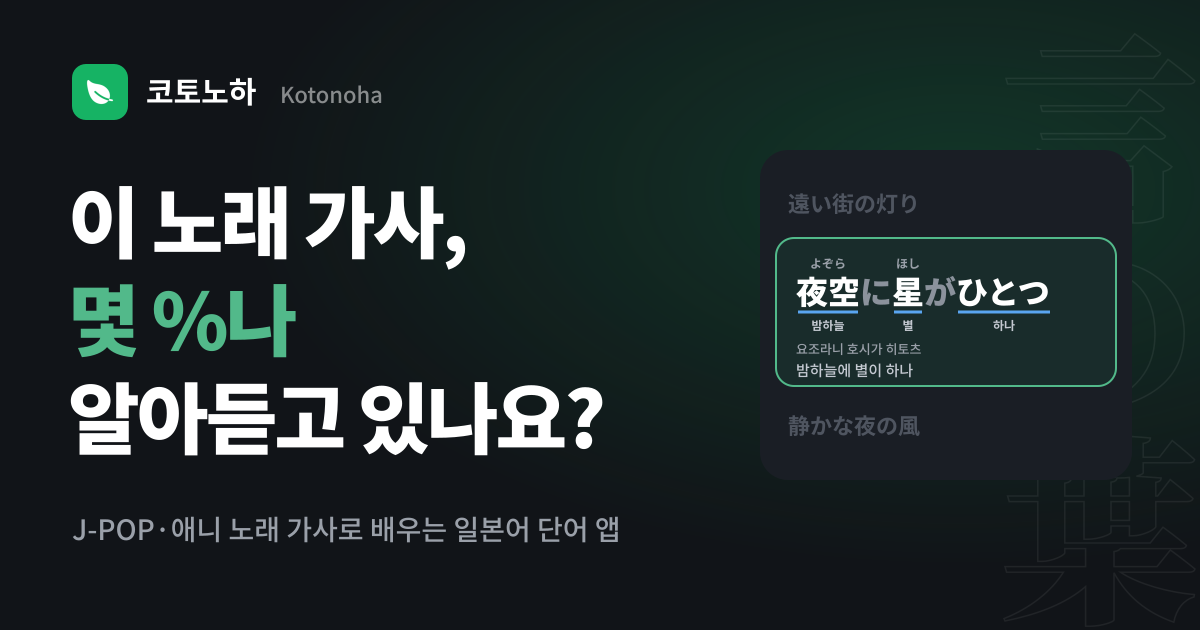
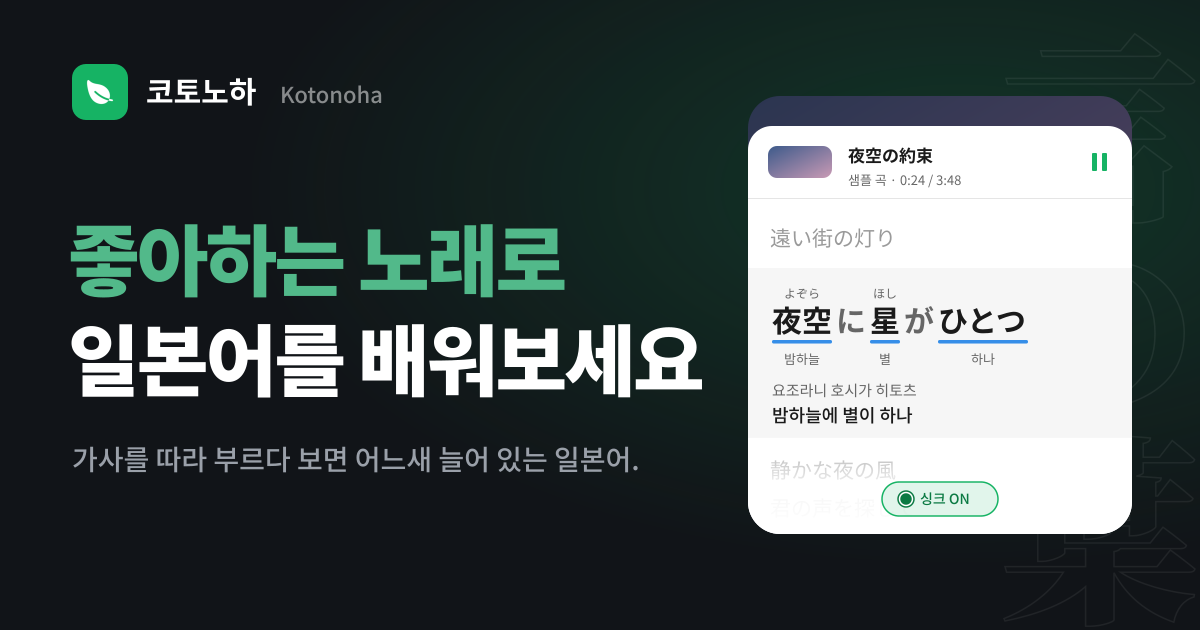
랜딩 히어로 제목과 공유 이미지를 인스타 표지 v2 문구("좋아하는 노래로 일본어를 배워보세요", "가사를 따라 부르다 보면 어느새 늘어 있는 일본어.")로 바꾸고, og.png 가사 카드를 지금 히어로 폰의 흰 가사 시트로 다시 그린다 — 옛 카드뉴스 표지 문구와 옛 가사 화면을 쓰고 있었다

diff --git a/landing-web/public/index.html b/landing-web/public/index.html
@@ -20,7 +20,7 @@
   <meta property="og:image" content="https://kotonoha.eastshine.dev/assets/og.png">
   <meta property="og:image:width" content="1200">
   <meta property="og:image:height" content="630">
-  <meta property="og:image:alt" content="코토노하: 이 노래 가사, 몇 %나 알아듣고 있나요?">
+  <meta property="og:image:alt" content="코토노하: 좋아하는 노래로 일본어를 배워보세요">
   <meta name="twitter:card" content="summary_large_image">
   <meta name="twitter:title" content="코토노하 · 노래 가사로 배우는 일본어">
   <meta name="twitter:description" content="듣던 노래 가사가 그대로 일본어 플래시카드가 됩니다.">
@@ -144,13 +144,12 @@
         <div class="hero__copy">
           <p class="eyebrow eyebrow--dark">노래로 배우는 일본어</p>
           <h1 id="hero-title" class="hero__title">
-            이 노래 가사,<br>
-            <em>몇 %나</em><br>
-            알아듣고 있나요?
+            <em>좋아하는 노래로</em><br>
+            일본어를 배워보세요
           </h1>
           <p class="hero__lead">
-            좋아하는 J-POP·애니 노래 가사에 후리가나와 한국어 발음, 단어 뜻, 번역을 붙여 드려요.
-            가사 속 단어를 플래시카드로 복습할수록 그 곡에서 알아듣는 줄이 늘어나요.
+            가사를 따라 부르다 보면 어느새 늘어 있는 일본어.
+            J-POP·애니 노래 가사에 후리가나와 한국어 발음, 단어 뜻, 번역을 붙여 드려요.
           </p>
           <div class="stores" data-stores>
             <a class="store" href="https://apps.apple.com/app/id6806729387" rel="noopener" data-store="ios" aria-label="App Store에서 코토노하 다운로드">
